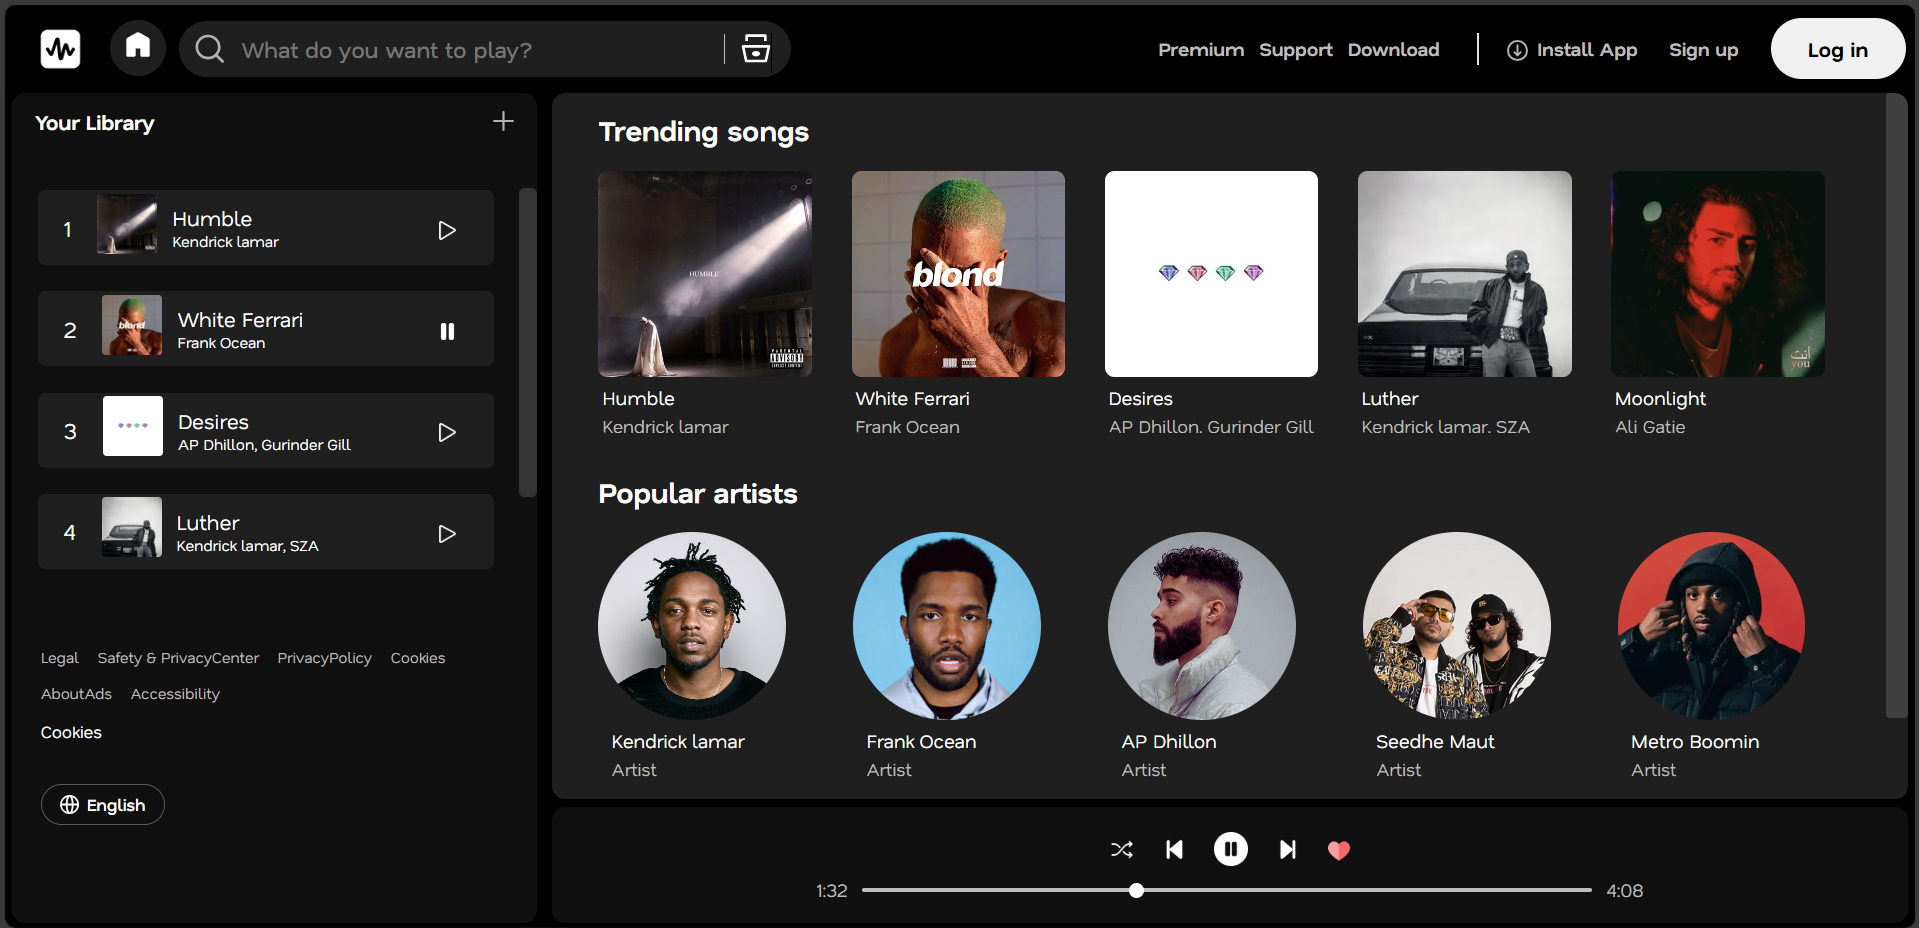
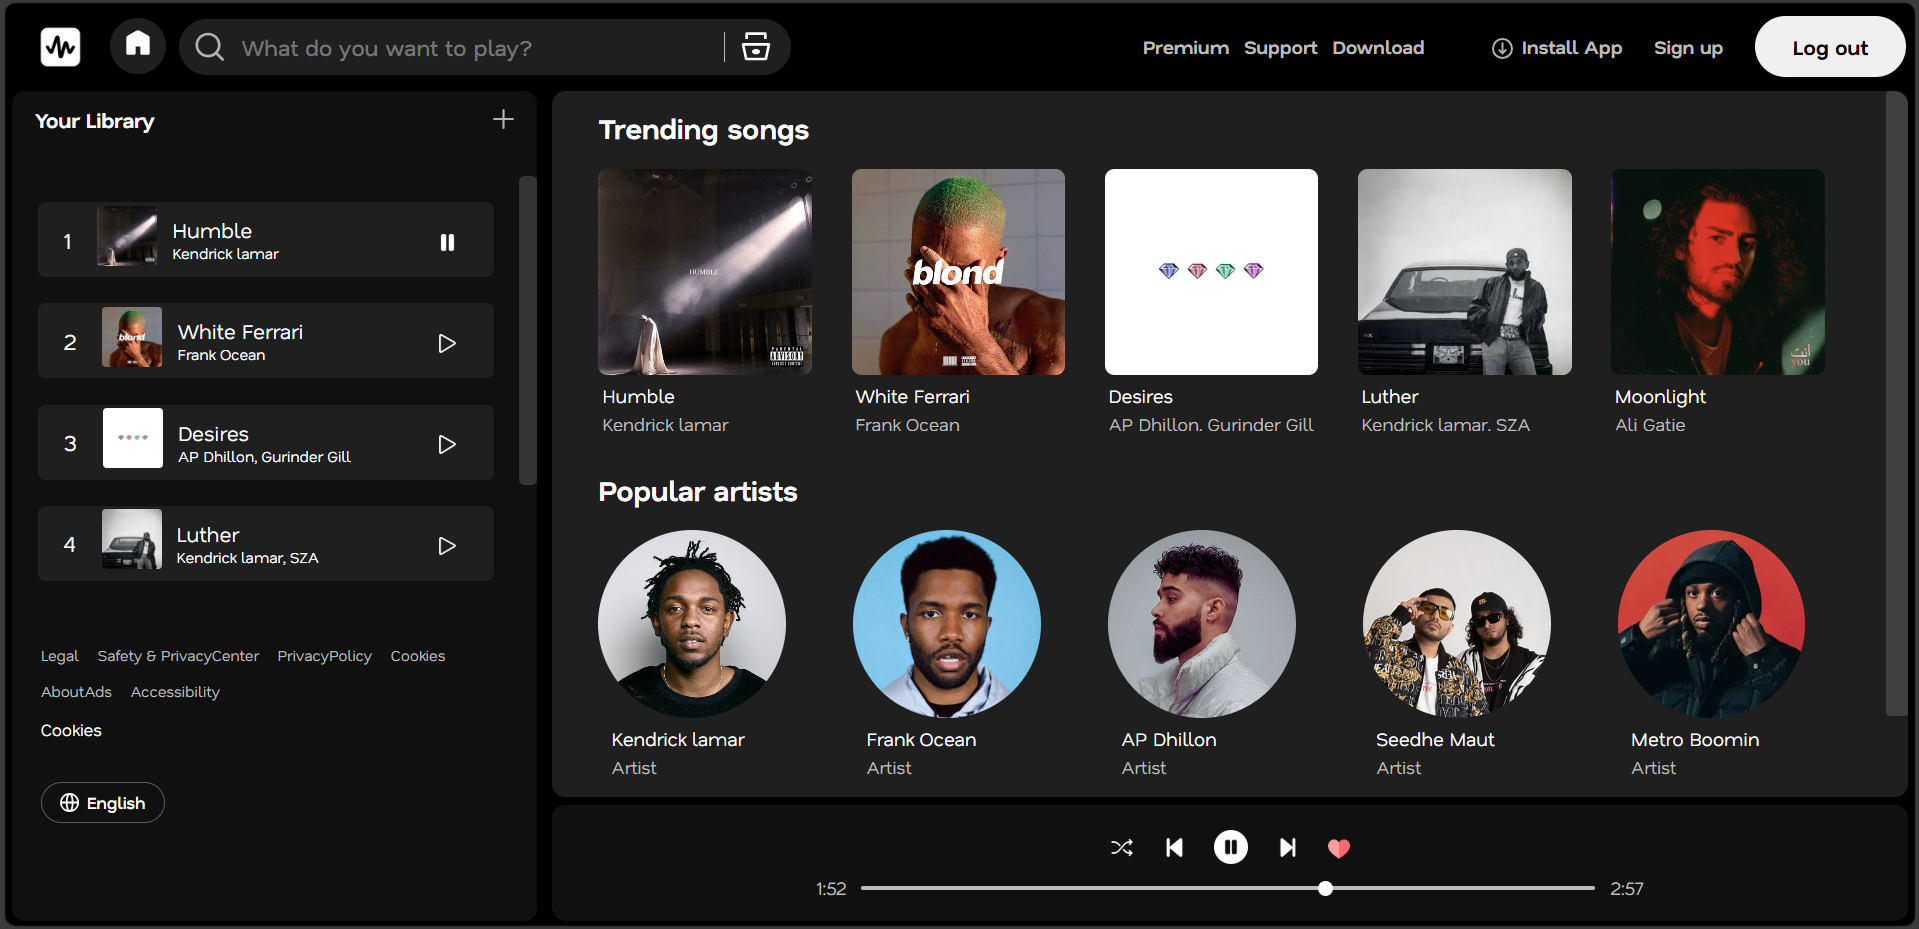
Updated Readme.md

diff --git a/Readme.md b/Readme.md
@@ -1,22 +1,30 @@
 # Resona 🎵
 
-![Resona UI](assets/SS-1.png)
+![Resona UI](./public/assets/SS-1.png) ![Authentication](./public/assets/SS-2.png)
 
-Resona is a **web-based music application** where users can enjoy a limited collection of songs.  
-This project is currently **client-side only** and focuses on UI design and user experience.  
-
-As a **UI design project**, it showcases a modern music streaming interface, including trending songs, popular artists, and a library section. More features and advanced functionality will be added in future updates to make this project even more interactive and dynamic.
+Resona is a **full-stack web-based music application** where users can enjoy a curated collection of songs.  
+It now includes **user authentication** (Signup, Login, and Logout) with **credentials securely stored in MongoDB**, powered by **Node.js, Express, and EJS** for server-side rendering.
 
 ---
 
 ## 🚀 Features
-- Play songs directly from the interface.
-- Explore popular artists.
-- Fully designed UI with focus on user experience.
-- Planned future enhancements:
-  - Dynamic song loading from API
-  - Playlist creation
-  - Responsive mobile-friendly design
+
+- 🎧 Play songs directly from the interface  
+- 👤 **User Authentication**  
+  - Signup, Login, and Logout functionality  
+  - Credentials securely stored in MongoDB  
+- ⚙ **Backend Integration** using Node.js & Express  
+- 🖥 **Server-Side Rendering** with EJS templates   
+- 🧭 Well-structured project setup combining frontend and backend
+
+---
+
+## 🔮 Future Enhancements
+
+- Fully **responsive** and mobile-friendly layout  
+- **Dynamic song loading** from an API  
+- **Playlist creation & management**  
+- **Enhanced user dashboard** for personalized experience  
 
 ---
 
@@ -24,14 +32,16 @@ As a **UI design project**, it showcases a modern music streaming interface, inc
 
 Follow these steps to clone and run the project locally:
 
-1. **Clone the repository**  
 ```bash
 git clone https://github.com/Pranjl7/Resona.git
 cd Resona
+npm install
+npm start
+
 ```
-
 ## 🤝 Contributing
-  Contributions, issues, and feature requests are welcome! Feel free to check the issues page.
 
-## 📜 License
-Distributed under the MIT License.
+ Contributions, issues, and feature requests are welcome! Feel free to check the issues page.
+ ## 📜 License
+
+  Distributed under the MIT License.
